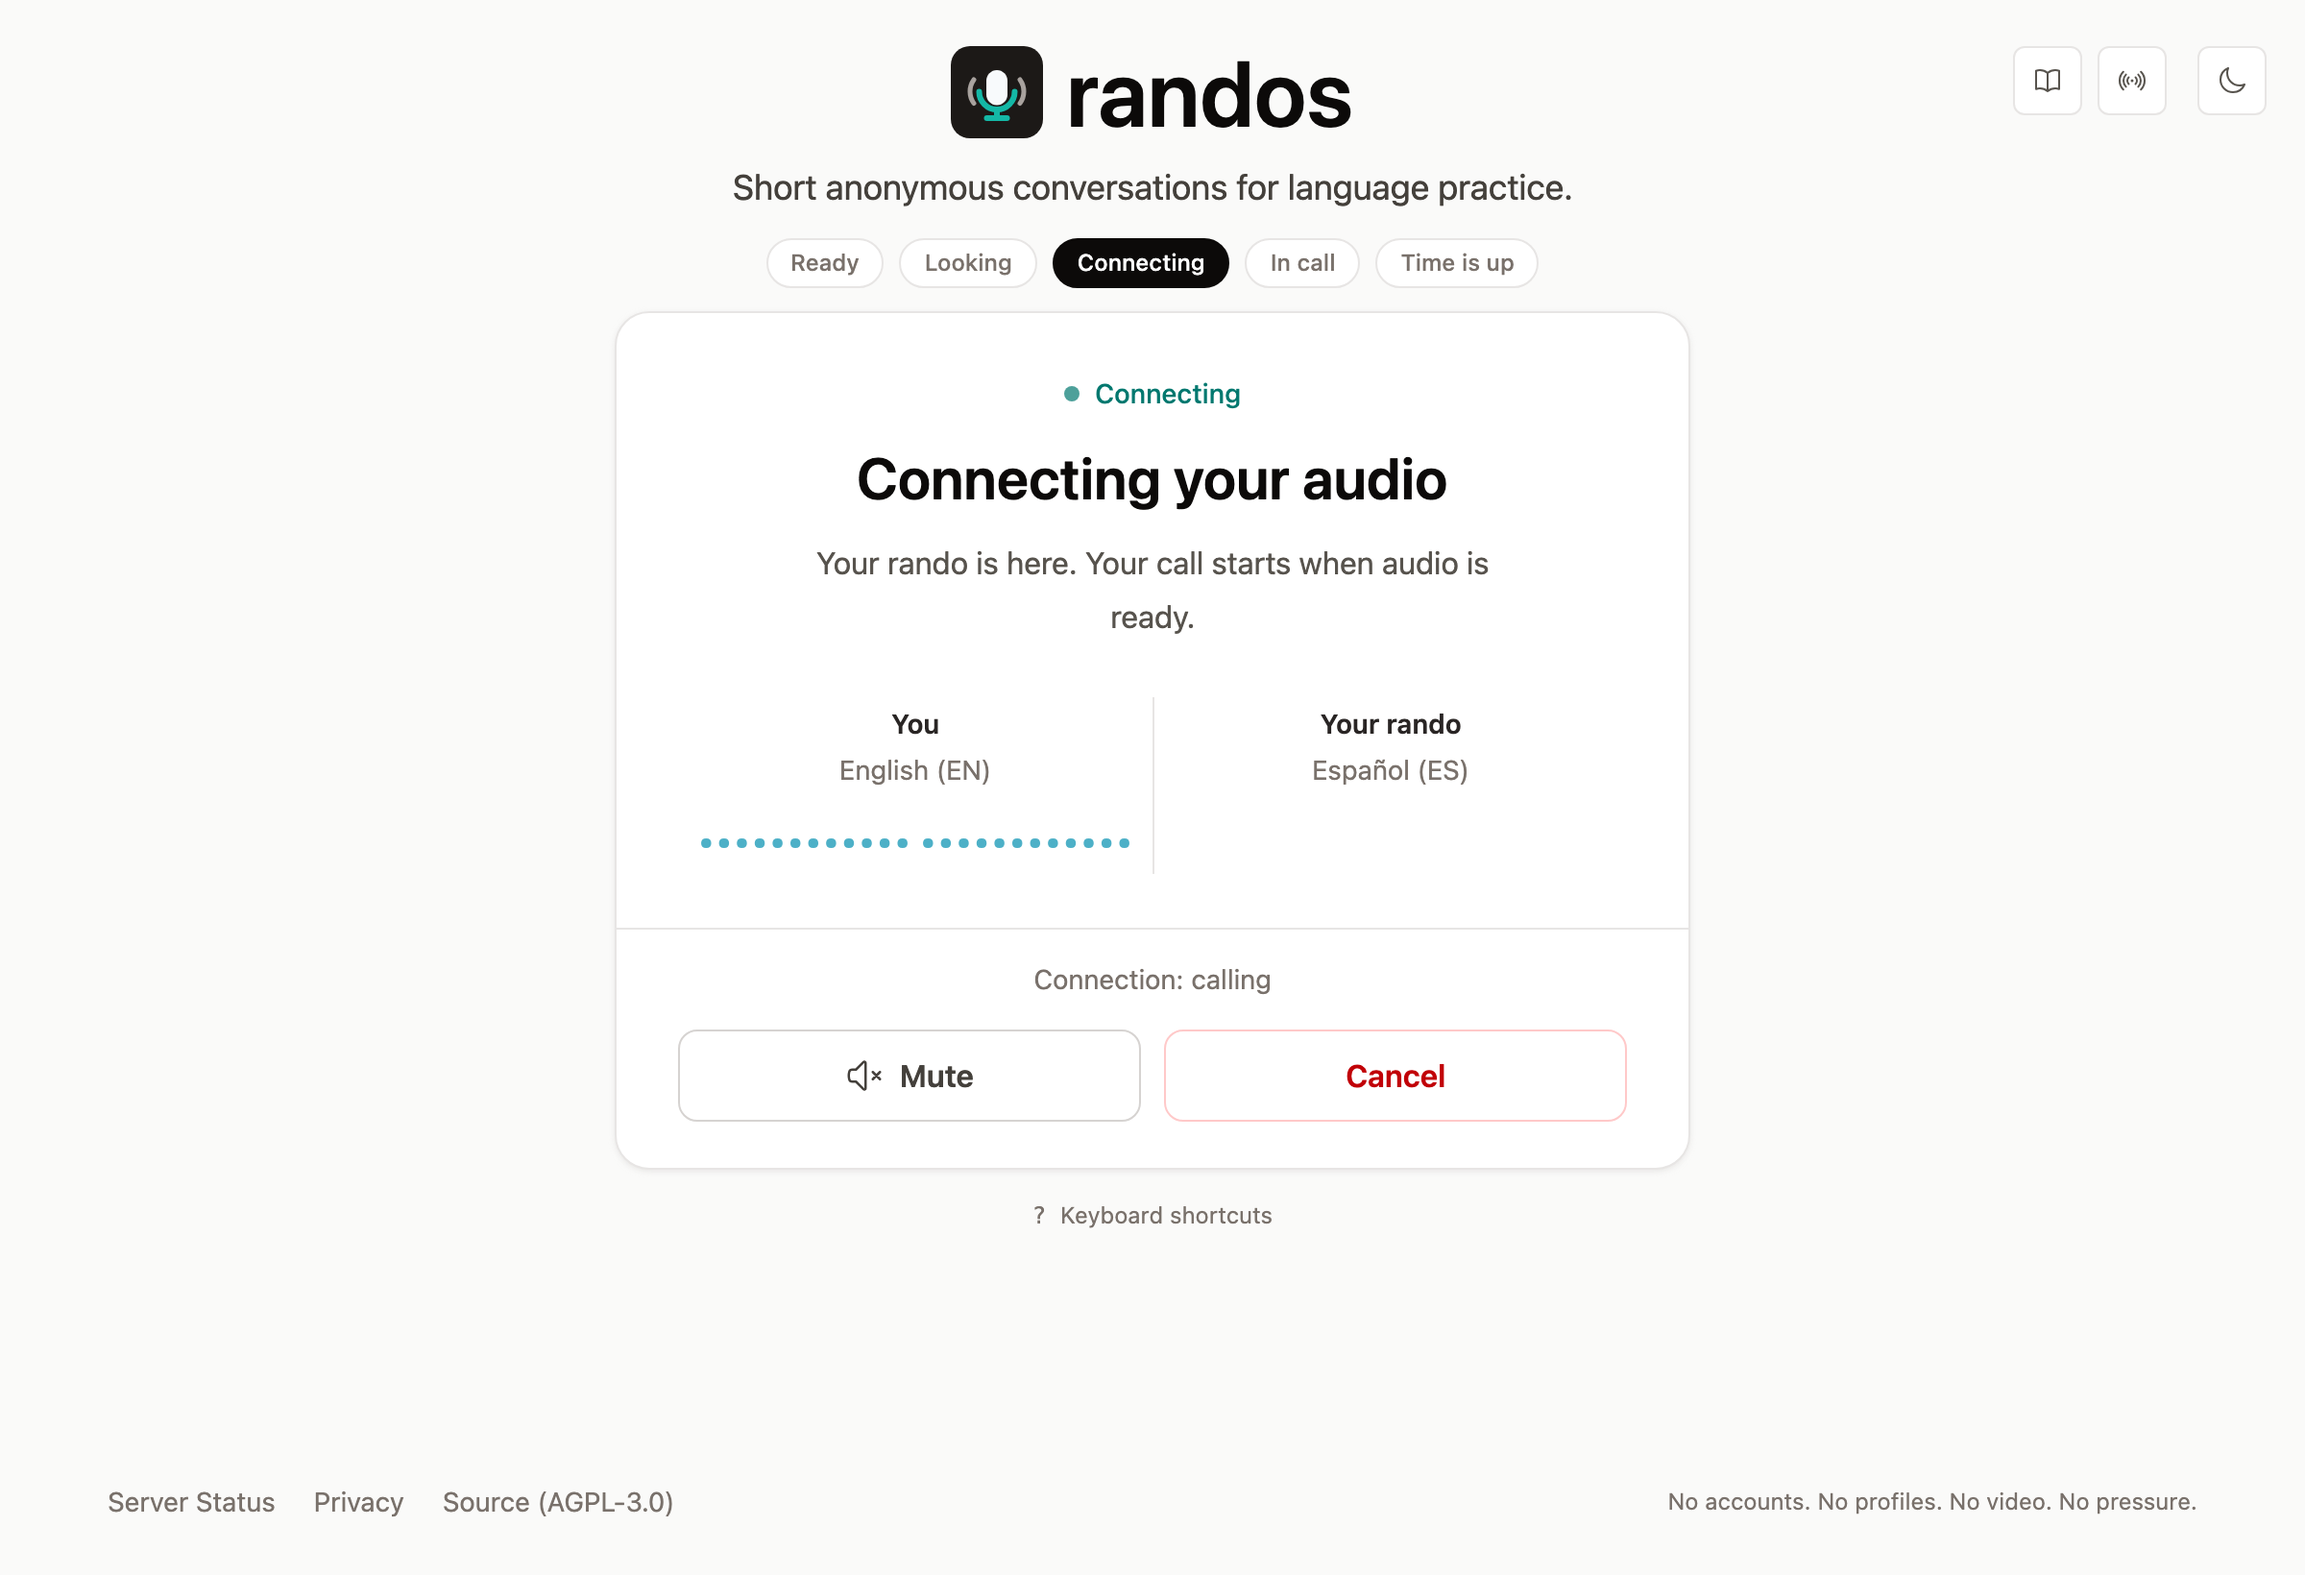
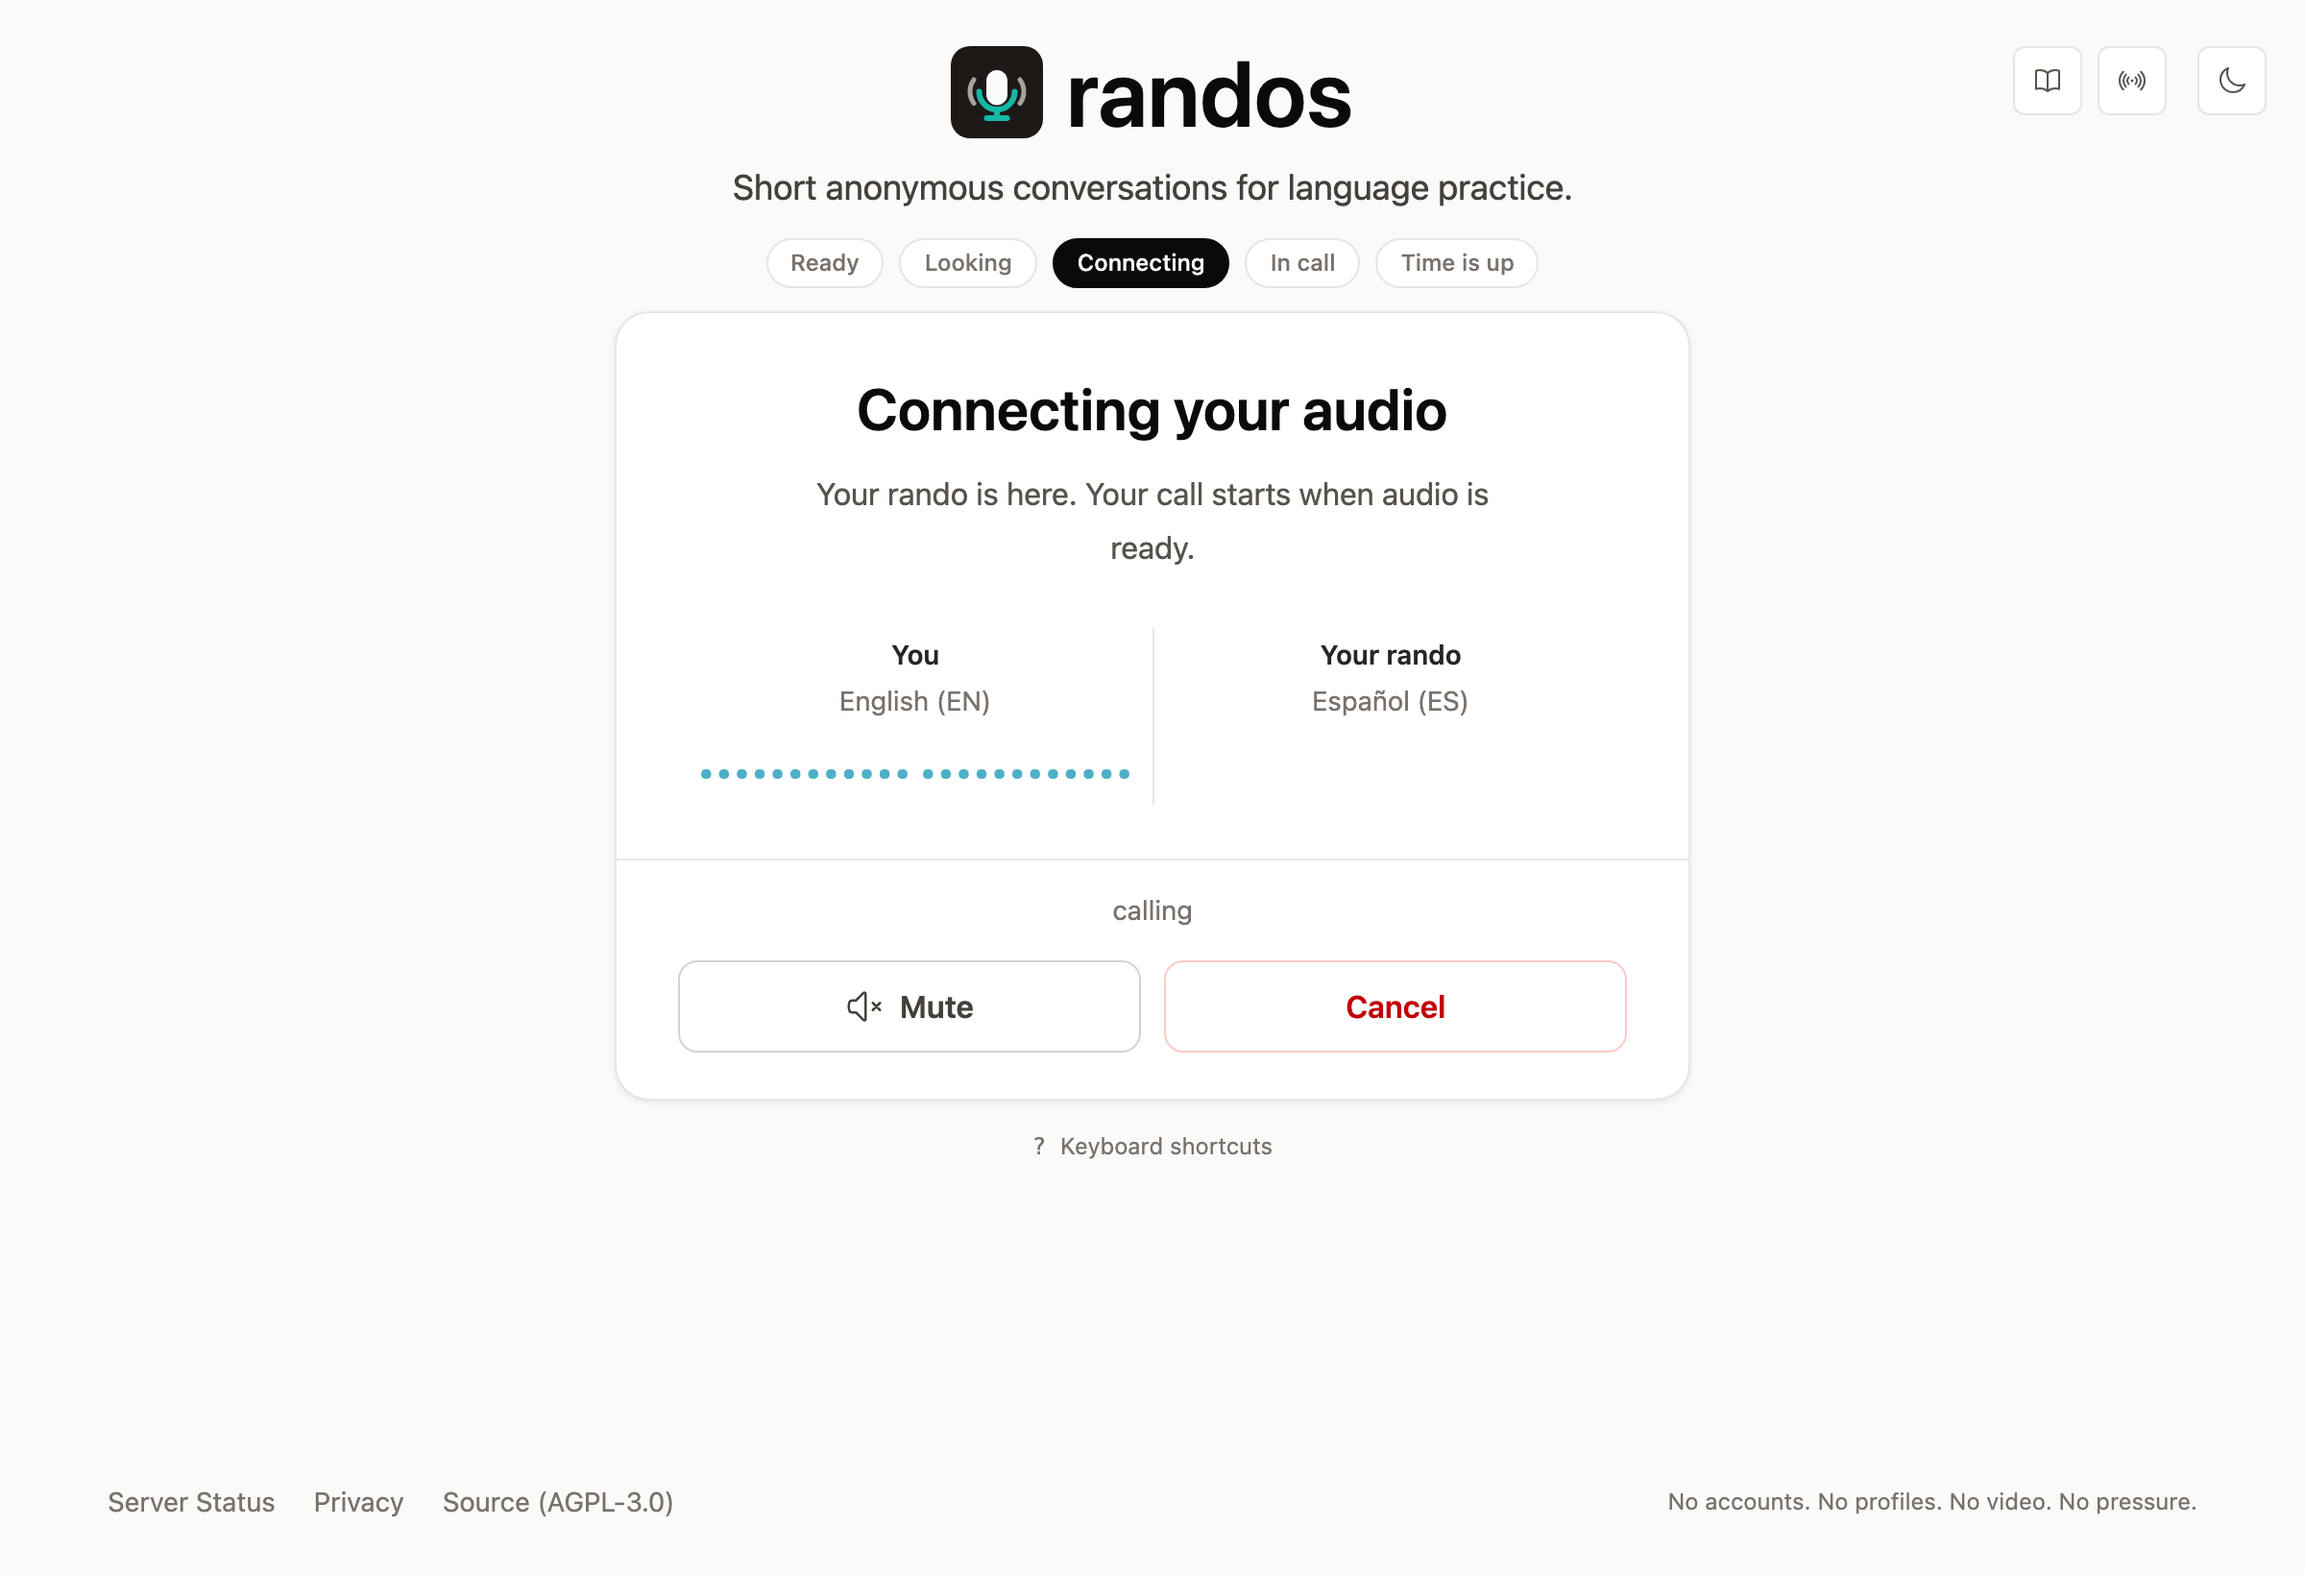
Refine mobile call layout and capture product design context

diff --git a/assets/css/app.css b/assets/css/app.css
@@ -169,6 +169,10 @@
 
 /* The same keyed, DOM-owning media hook survives connecting → active.
    Layout changes here keep its controls and microphone state intact. */
+#conversation-card[data-ui-state="in_call"] {
+  grid-template-columns: repeat(3, minmax(0, 1fr));
+}
+#conversation-card[data-ui-state="in_call"] #mute-button { height: 100%; }
 #conversation-card[data-ui-state="connecting"] {
   max-width: 35rem;
   grid-template-columns: repeat(2, minmax(0, 1fr));

diff --git a/PRODUCT.md b/PRODUCT.md
@@ -1,0 +1,112 @@
+# Product
+
+<!-- impeccable:product-schema 1 -->
+
+This record captures the product direction confirmed by the owner on
+2026-11-06. [README.md](README.md) remains the authoritative product
+requirements; protocol, privacy and operational details belong in their
+linked guides. This file does not replace those contracts.
+
+## Platform
+
+web
+
+The website works in desktop and mobile browsers. A separate terminal client
+participates in the same calls and must retain the same server policy. The
+terminal client is not a native mobile application.
+
+## Users
+
+Adults, 18 or older, who want short voice conversations for language practice.
+Crosstalk, language exchange, listening practice and casual conversation are
+equally supported. Do not prioritize a proficiency level or force these uses
+into separate modes without a new product decision.
+
+## Product Purpose
+
+Make it easy to meet, talk briefly and leave without building an online
+identity. Success means enabling the conversation and preserving participants'
+ability to leave; engagement loops, progress scores and time spent are not
+product goals.
+
+## Positioning
+
+randos is free conversational infrastructure for the language-learning
+community: a calm doorway, with short, anonymous, audio-only calls and no
+accounts, profiles or persistent social graph. People can speak different
+languages to each other, speak the same language, or just listen.
+
+## Operating Context
+
+- Choose languages you are happy to speak and hear, acknowledge the 18+ notice,
+  and find a compatible stranger. Calls are unmoderated.
+- Calls are time-bounded, with mutual continuation. Either participant can
+  leave at any time. The [call-flow contract](docs/architecture/call_flow.md)
+  owns lifecycle behavior and timing.
+- One-time invitations let someone bring a person they know. Browser and
+  terminal clients can call and invite each other.
+- Microphone access is needed to speak. Headphones are recommended for the
+  optional local voice preview.
+- The browser and terminal expose connection status, language choices, mute,
+  call exit and local voice masking. Recovery and call policy come from the
+  server, consistently across clients.
+
+## Capabilities and Constraints
+
+- No accounts, profiles, recording, server-side audio access, persistent
+  social graph, ads, tracking, paid features or video.
+- No feeds, followers, streaks, ratings, scores or forced progress loops.
+- Live participant and call state stays in processes; there is no user
+  database. Privacy-filtered aggregate call counts are the documented
+  persistence exception, not a history of individuals.
+- Audio uses WebRTC encryption between clients. Production defaults to
+  relay-only calls, with direct-address filtering. Preserve the qualifications
+  and operator exceptions in [docs/privacy.md](docs/privacy.md) and
+  [docs/self-hosting.md](docs/self-hosting.md); avoid broader privacy promises.
+- Voice masking runs locally, starts off in a fresh session and offers a
+  changed voice rather than guaranteed anonymity. Preview is explicit and
+  never recorded or uploaded. Masking failure must withhold capture rather
+  than send an unmodified fallback.
+- First-party assets are served from the same origin. No runtime third-party
+  scripts, styles, fonts or analytics.
+- The interface supports the repository's established translation pipeline
+  and English fallback. Machine translations have known coverage limitations.
+
+## Brand Commitments
+
+The name is **randos**. Preserve the plain, calm, low-pressure voice in the
+README: "a doorway, not a platform." The existing logo is
+[priv/static/images/logo.svg](priv/static/images/logo.svg). Follow the
+repository's established interface constraints when designing; init does not
+establish or replace a visual system.
+
+## Evidence on Hand
+
+- [README.md](README.md): public product description, workflows and constraints.
+- [docs/assets/](docs/assets/): committed browser and terminal screenshots,
+  including browser light and dark themes.
+- [docs/privacy.md](docs/privacy.md): scoped privacy claims, retention and
+  implementation evidence.
+- [docs/architecture/refactor_plan.md](docs/architecture/refactor_plan.md):
+  current shipped state and links to release, listening and latency evidence.
+
+No testimonials, audience research or adoption metrics were established in
+this init interview. Do not invent them or present internal audio experiments
+as general claims of anonymity.
+
+## Product Principles
+
+1. Make entering, understanding and leaving a conversation straightforward.
+2. Treat crosstalk, exchange, listening and casual conversation as equal uses.
+3. Preserve ephemerality and minimize what the service learns or retains.
+4. Keep call policy consistent across browser and terminal clients.
+5. Favor conversational comfort over gamification or pressure to stay.
+
+## Accessibility & Inclusion
+
+Keep the interface usable on desktop and mobile, with keyboard access and
+clear connection, microphone and call states. Preserve translated interfaces
+and the terminal client's established RTL and display-width handling. Audio-only
+participation includes listening; do not introduce video or assume everyone
+will speak. No additional formal accessibility standard was selected during
+this interview.

diff --git a/docs/architecture/refactor_plan.md b/docs/architecture/refactor_plan.md
@@ -1,5 +1,36 @@
 # randos — current architecture and roadmap
 
+Verified mobile call presentation on 2026-11-06 with `just precommit`,
+`just smoke`, `just tui-smoke` and `just screenshots`. The first UI refinement
+keeps the existing visual identity and server policy.
+Mobile calls use compact branding, retain the current progress step for assistive
+technology, and show both voices and Mute/Next/End side by side. The connecting
+panel drops its duplicate eyebrow; the connection prefix remains available to
+screen readers. Microphone permission and transport states remain visible, and
+the keyed media hook is preserved through call transitions. No timing, protocol,
+privacy or TUI behavior changes.
+
+The screenshot harness now checks mobile call voices and controls at 320/390 px
+and captures light/dark evidence. README screenshots are refreshed; README,
+development and self-hosting prose need no changes because the controls,
+configuration and call semantics are unchanged. Translated message keys are
+reused, so no model run or catalog changes are needed.
+The detector's five gray-on-color warnings are pre-existing theme-pair false
+positives: white text on dark teal in light mode and dark text on light teal
+in dark mode. No detector rules were suppressed.
+Owner review: "it looks pretty subtle. it looks good"; keep this restrained
+first pass rather than expanding into a redesign.
+
+Verified Impeccable product-context initialization on 2026-11-06 against the
+owner's confirmed direction and README: [PRODUCT.md](../../PRODUCT.md) records
+equal support for crosstalk, exchange, listening and casual conversation;
+`.impeccable/config.json` records the owner's code-first workflow choice.
+This adds design context only. README, development and self-hosting need no
+changes because product behavior, setup and operations are unchanged. Live-mode
+integration is deferred; no template injection or CSP changes are part of init.
+Validation: product schema and workflow JSON checks, `git diff --check` and
+`just precommit` passed.
+
 Verified dependency maintenance locally on 2026-11-05 with `just precommit`:
 the vendored renderer lock uses pulldown-cmark 0.13.6 for RUSTSEC-2026-0433,
 with the physical redraw patch and source provenance guard preserved. The
